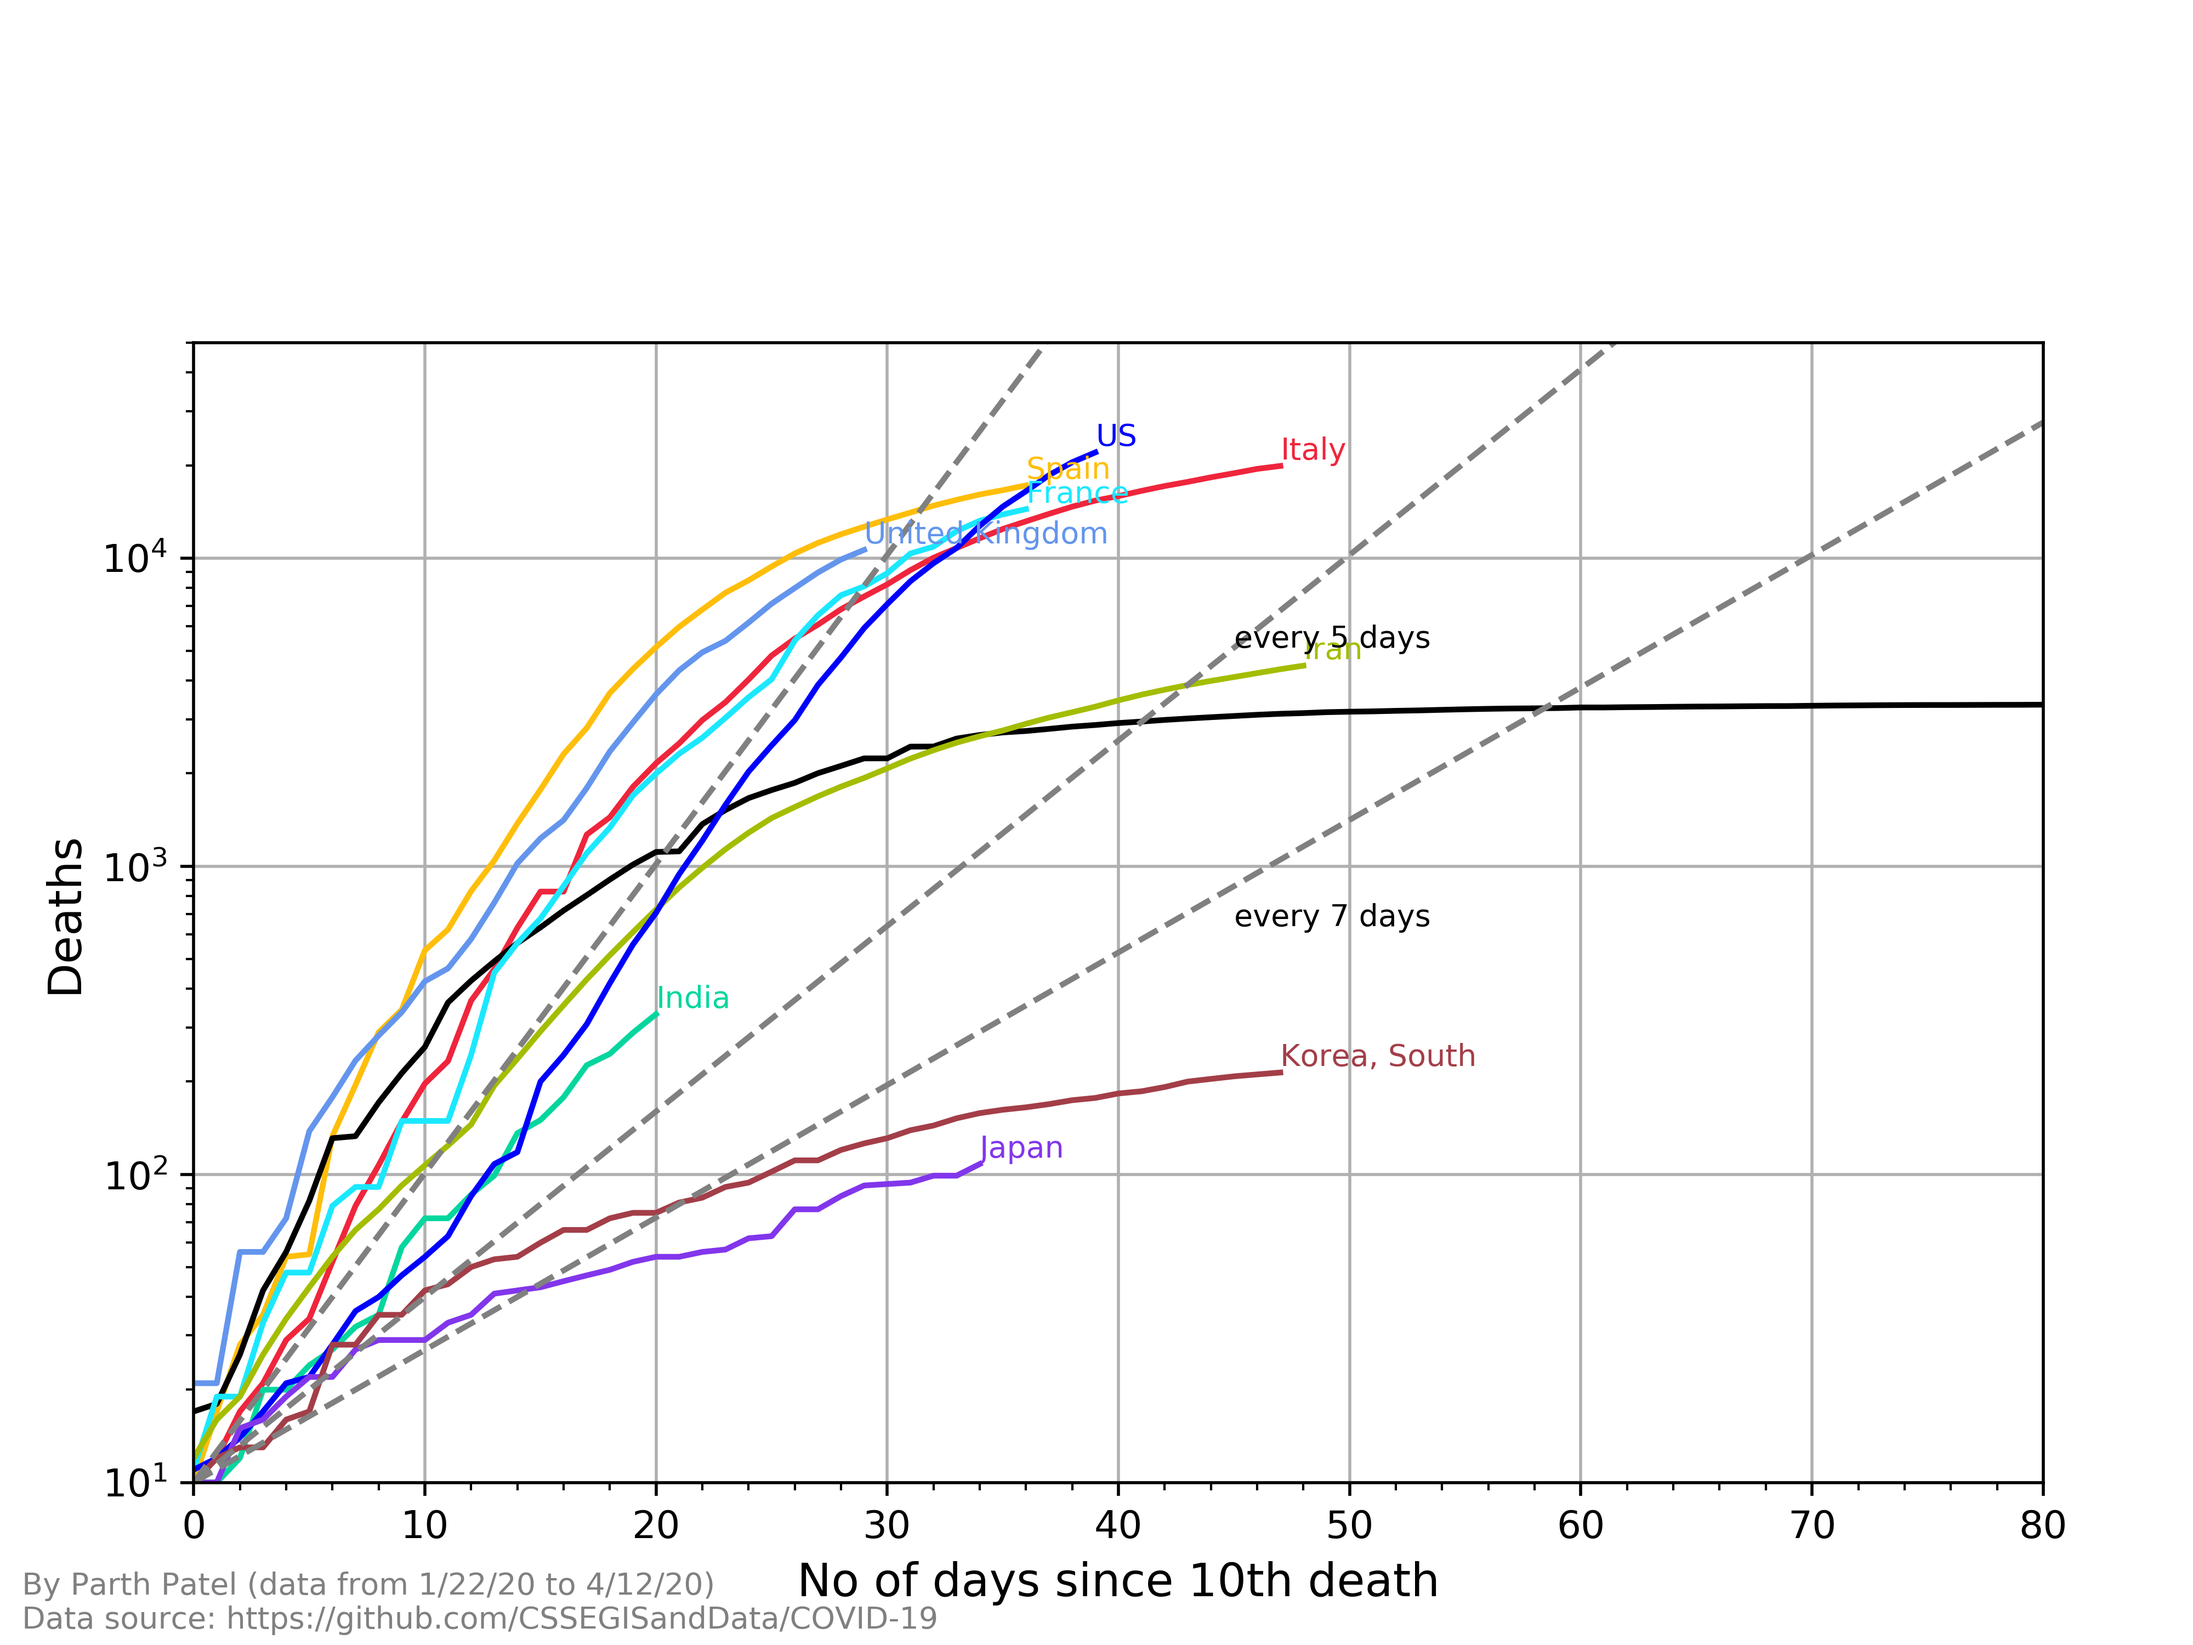
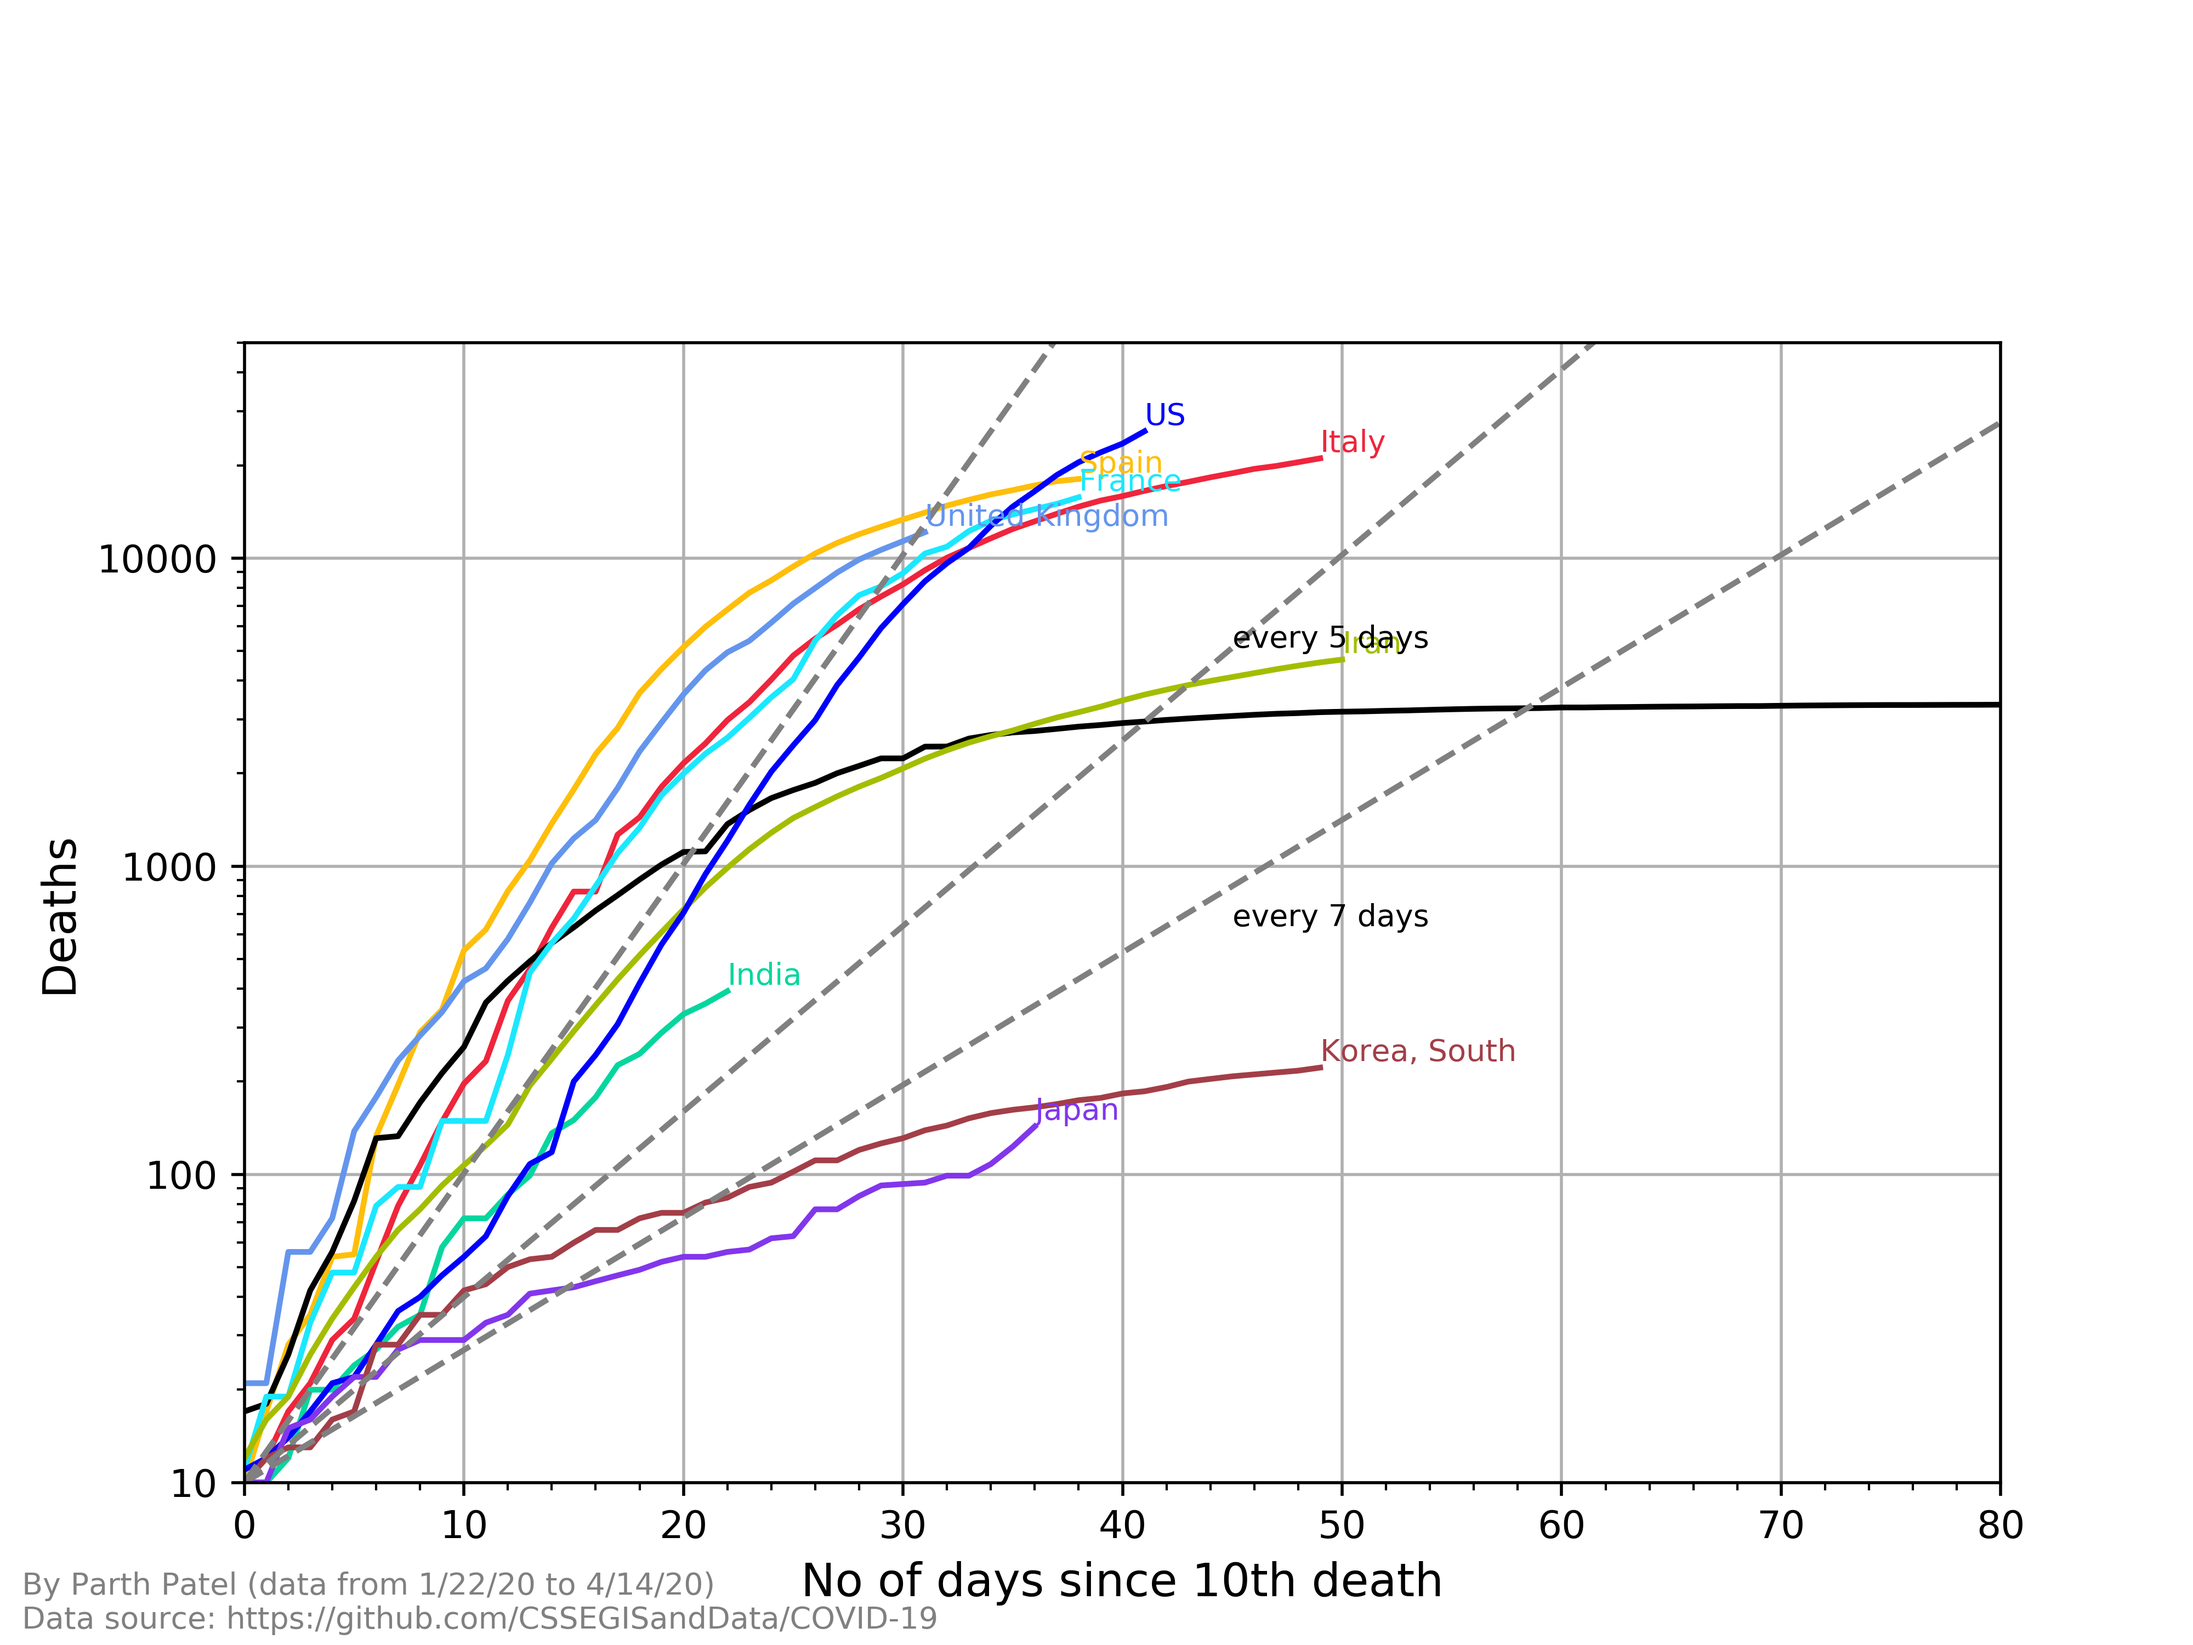
latest

diff --git a/plot.py b/plot.py
@@ -110,7 +110,7 @@ color_list = ['#ef253c', '#05d69e', '#ffbe0a', 'black',
               '#1ae8ff',  '#6495ed', '#a4bd00', 'blue', '#8236ec', '#a33e48']
 
 # death
-plt.figure(figsize=(8, 6))
+figure, ax = plt.subplots(figsize=(8, 6))
 k = 0
 for i in list_countries:
     plt.plot(first_death_dict[i], label=i, color=color_list[k])
@@ -126,6 +126,7 @@ doubling_plot(no_of_days, 0, threshold_death, 7)
 plt.xlim((0, 80))
 plt.ylim((threshold_death, 5e4))
 plt.yscale('log')
+ax.yaxis.set_major_formatter(plt.FormatStrFormatter('%d'))
 # plt.legend()
 plt.figtext(0.01, 0.01, f'By Parth Patel (data from {dates[0]:} to {dates[-1]}) \nData source: https://github.com/CSSEGISandData/COVID-19',
             horizontalalignment='left', fontsize=8, color='grey')
@@ -136,7 +137,7 @@ plt.show()
 plt.savefig('Death', dpi=500)
 
 # recovery
-plt.figure(figsize=(8, 6))
+figure, ax = plt.subplots(figsize=(8, 6))
 k = 0
 for i in list_countries:
     plt.plot(first_recovered_dict[i], label=i, color=color_list[k])
@@ -153,6 +154,7 @@ doubling_plot(no_of_days, 0, threshold_recovered, 7)
 plt.xlim((0, no_of_days))
 plt.ylim((threshold_recovered, 9e4))
 plt.yscale('log')
+ax.yaxis.set_major_formatter(plt.FormatStrFormatter('%d'))
 # plt.legend()
 plt.figtext(0.01, 0.01, f'By Parth Patel (data from {dates[0]:} to {dates[-1]}) \nData source: https://github.com/CSSEGISandData/COVID-19',
             horizontalalignment='left', fontsize=7, color='grey')
